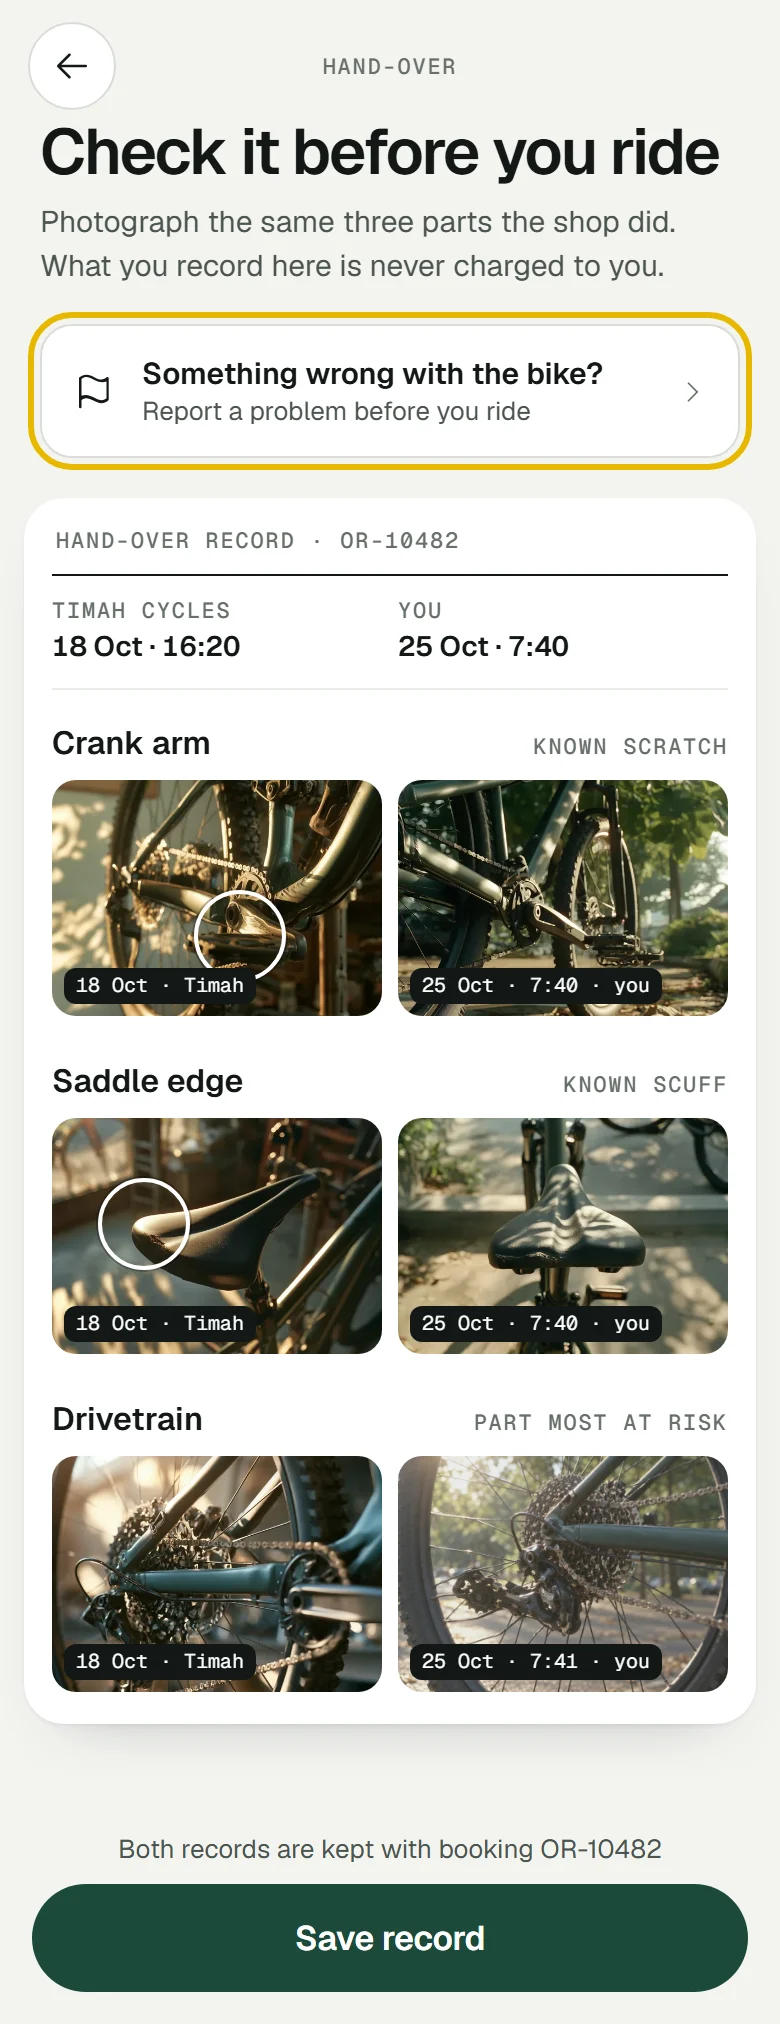
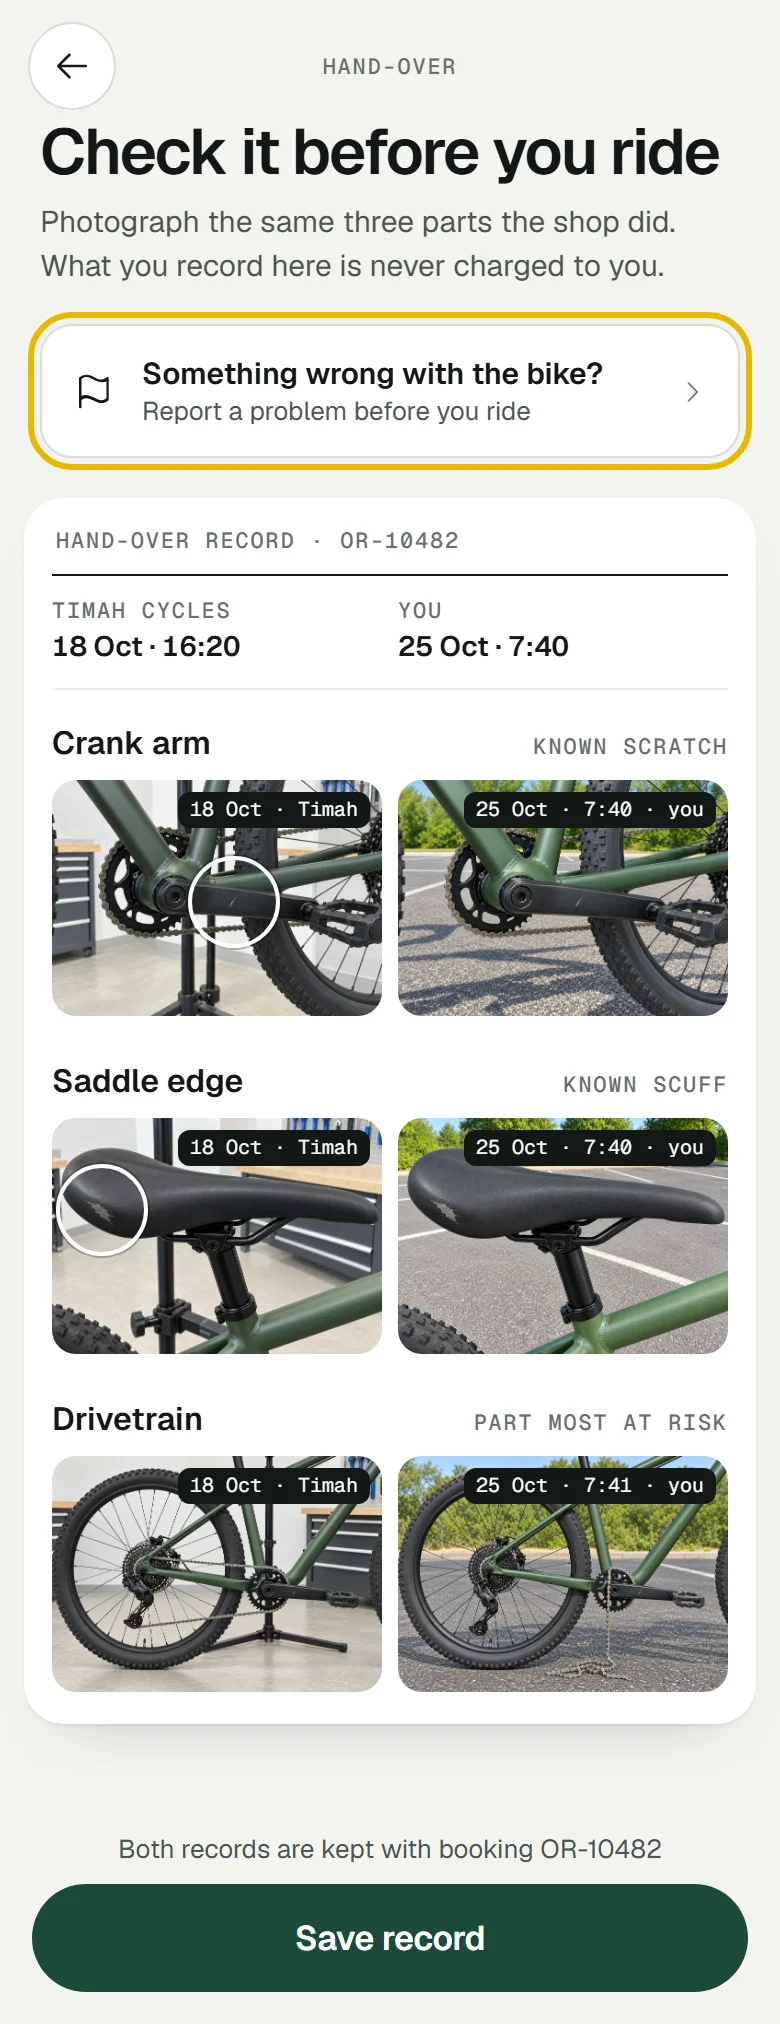
Test site: its own six photos, "Use photo" must be tapped, and two entry lines
The six photos are cropped to 7:5. From 3:2 that takes only the sides, so the drive pair keeps its bottom edge whole. Rings: shop crank (55, 52), shop saddle (15, 39); none on the drive pair or on Daniel's photos. The live app keeps its images.

The camera preview now waits for "Use photo", logged as photo_use_tap; "Retake" shows the same photo again and its tap is logged. t_damage_visible is still the moment the drivetrain preview appears. No schema change.

The photo tags move to the top right on all six photos, in both versions: at the bottom left, Daniel's drivetrain tag covered the chain on the ground. On short phones the entry sheet is tighter, so the whole bike still shows at 375 x 667.

The preference pictures are remade. Flows pass 488 of 488; the A/B pixel check, bundle grep and slow-connection check pass.

Changed region(s): [[0.0615, 0.3735, 0.9538, 0.6848], [0.0615, 0.7159, 0.9538, 0.8404]]

diff --git a/app/src/abtest/Screens.tsx b/app/src/abtest/Screens.tsx
@@ -2,9 +2,9 @@ import { useEffect, useRef, type CSSProperties, type KeyboardEvent, type ReactNo
 import { Icon } from '../shell/Icon'
 import { Photo } from '../shell/Photo'
 import { BackButton, Mono } from '../shell/direction'
-import { PARTS, RecordPart, ReportRow, type PartId } from '../pages/11-handover-check/pieces'
+import { RecordPart, ReportRow, type PartId } from '../pages/11-handover-check/pieces'
 import type { Variant } from './api'
-import { BACKDROP, CAPTION, EVIDENCE_DONE, EVIDENCE_OPEN, FIRST_TAKEN, LAYOUTS, LAYOUT_H, NOTICED, REASONS, SENT_FULL, SENT_SHORT, SHOP_TAG, TAKEN, mineOf } from './story'
+import { AB_PARTS, BACKDROP, CAPTION, EVIDENCE_DONE, EVIDENCE_OPEN, FIRST_TAKEN, LAYOUTS, LAYOUT_H, NOTICED, REASONS, SENT_FULL, SENT_SHORT, SHOP_TAG, TAKEN, mineOf } from './story'
 
 // The screens. The app's own copy is as in the flow artifact; what the participant reads outside the app is as in UPDATE 3. No screen reads the store or the router; App.tsx owns the state and the log.
 
@@ -42,12 +42,13 @@ export function Entry({ onStart, busy, failed }: { onStart: () => void; busy: bo
       <Mono>SMU IS211 · OutRent</Mono>
       <h1 className="t-h1">Your bike’s here</h1>
       <p className="lede">You’re Daniel. You booked a mountain bike on OutRent for a Saturday morning ride, and it’s just been dropped off at the trailhead. There’s a S$150 deposit on your card until you return it.</p>
-      <p className="lede">Use the app like you normally would before you ride off. Takes about 3 minutes.</p>
+      <p className="lede">Use the app like you normally would before you ride off. Compare what you see with the shop’s photos. Takes about 3 minutes.</p>
       {failed && <p className="ab-dock-note" role="alert">We could not reach the server. Check your connection and tap Start again.</p>}
       <button type="button" className="cta" data-log="start" disabled={busy} onClick={onStart}>Start</button>
       <div className="ab-ps-small">
         <p className="small">Hi! We’re SMU students building OutRent for our IS211 project. Thanks for helping us test it.</p>
         <p className="small">We don’t collect names or any personal info.</p>
+        <p className="small">Tapping “Take photo” won’t open your camera. The photos are already taken for you, it’s a prototype.</p>
       </div>
     </PhotoSheet>
   )
@@ -80,7 +81,7 @@ export function HandoverPage({ variant, shots, sent, linkRef, scrollRef, onTake,
             <div><Mono>You</Mono><b>{shots.length ? FIRST_TAKEN : 'Not taken yet'}</b></div>
           </div>
           <div className="parts">
-            {PARTS.map((p) => (
+            {AB_PARTS.map((p) => (
               <RecordPart key={p.id} p={p} shot={shots.includes(p.id)} when={TAKEN[p.id]} eager mine={mineOf(p.id)}
                 onTake={(el) => { if (shots.includes(p.id)) onView({ part: p.id, who: 'you' }, el); else onTake(p.id) }}
                 shopTag={<>
@@ -102,14 +103,21 @@ export function HandoverPage({ variant, shots, sent, linkRef, scrollRef, onTake,
 }
 
 // ---------- 2 · Simulated camera ----------
-export function Camera({ part }: { part: PartId }) {
+// The preview stays until "Use photo" is tapped. "Retake" shows the same photo again, with a short fade so the tap is felt.
+export function Camera({ part, retakes, onRetake, onUse }: { part: PartId; retakes: number; onRetake: () => void; onUse: () => void }) {
+  const use = useRef<HTMLButtonElement>(null)
+  useEffect(() => { use.current?.focus({ preventScroll: true }) }, [])
   return (
-    <div className="ab-camera" data-log="camera" role="status">
+    <div className="ab-camera" data-log="camera" role="dialog" aria-modal="true" aria-label={CAPTION[part]}>
       <span className="ab-camera-cap">{CAPTION[part]}</span>
-      <div className="ab-camera-photo">
-        <Photo src={mineOf(part)} alt={`Your photo of the ${PARTS.find((p) => p.id === part)!.name.toLowerCase()}`} width={390} height={278} first />
+      <div key={retakes} className={`ab-camera-photo${retakes ? ' is-again' : ''}`}>
+        <Photo src={mineOf(part)} alt={`Your photo of the ${AB_PARTS.find((p) => p.id === part)!.name.toLowerCase()}`} width={390} height={278} first />
       </div>
-      <div className="ab-camera-bar" aria-hidden="true"><span>Retake</span><span className="ab-shutter" /><span>Use photo</span></div>
+      <div className="ab-camera-bar">
+        <button type="button" data-log="camera-retake" onClick={onRetake}>Retake</button>
+        <span className="ab-shutter" aria-hidden="true" />
+        <button type="button" className="is-use" ref={use} data-log="camera-use" onClick={onUse}>Use photo</button>
+      </div>
     </div>
   )
 }
@@ -135,7 +143,7 @@ function ViewerFrame({ label, src, alt, caption, tall, onClose }: { label: strin
   )
 }
 export function Viewer({ view, onClose }: { view: PhotoView; onClose: () => void }) {
-  const p = PARTS.find((x) => x.id === view.part)!, name = p.name.toLowerCase(), mine = view.who === 'you'
+  const p = AB_PARTS.find((x) => x.id === view.part)!, name = p.name.toLowerCase(), mine = view.who === 'you'
   return <ViewerFrame label={`Photo of the ${name}`} src={mine ? mineOf(p.id) : p.shop} alt={mine ? `Your photo of the ${name}` : `The shop’s photo of the ${name}`}
     caption={`${p.name} · ${mine ? `${TAKEN[p.id]} · you` : SHOP_TAG}`} onClose={onClose} />
 }
@@ -170,7 +178,7 @@ export function ReportForm({ shots, reason, photos, details, onBack, onReason, o
         <div className="pad ab-block">
           <Mono id="ab-photos">Photos from your hand-over record</Mono>
           <div className="ab-thumbs" role="group" aria-labelledby="ab-photos">
-            {PARTS.filter((p) => shots.includes(p.id)).map((p) => (
+            {AB_PARTS.filter((p) => shots.includes(p.id)).map((p) => (
               <button key={p.id} type="button" className="ab-thumb" data-log={`thumb:${p.id}`} aria-pressed={photos.includes(p.id)} aria-label={`Attach your photo of the ${p.name.toLowerCase()}`} onClick={() => onTogglePhoto(p.id)}>
                 <Photo src={mineOf(p.id)} alt="" width={64} height={48} first />
               </button>

diff --git a/app/src/abtest/App.tsx b/app/src/abtest/App.tsx
@@ -8,7 +8,6 @@ import { clearRow, dropNew, readParams, readRow, readSaved, writeRow, writeSaved
 import { decoded, mineOf, preload } from './story'
 
 // The test's own small state and its log. Every time is ms since the Start tap; t0 is on the row.
-const SHOW_MS = 1000       // the simulated camera's preview
 const FRAME_LIMIT = 120    // the preview counts as on screen after two frames, or this long if the browser holds frames back
 const LOAD_LIMIT = 8000    // how long the preview waits for a photo on a slow connection before it goes on without it
 const TAP_SLOP = 10        // a pointer that moved further than this was a scroll, not a tap
@@ -68,6 +67,8 @@ function Start({ onRow }: { onRow: (r: Row) => void }) {
 function Session({ row }: { row: Row }) {
   const [s, setS] = useState<Saved>(() => readSaved(row.token))
   const [camera, setCamera] = useState<PartId | null>(null)
+  const [retakes, setRetakes] = useState(0)
+  const previewShown = useRef(false)
   const [view, setView] = useState<PhotoView | null>(null)
   const [prefView, setPrefView] = useState<Variant | null>(null)
   const viewFrom = useRef<HTMLElement | null>(null)
@@ -134,7 +135,7 @@ function Session({ row }: { row: Row }) {
     return () => io.disconnect()
   }, [s.screen, now, setFields])
 
-  // The simulated camera: the preview shows for 1.0 s from the moment it is on screen, then the photo drops into its slot.
+  // The simulated camera: the preview stays until "Use photo" is tapped, then the photo drops into its slot.
   const take = async (id: PartId) => {
     if (taking.current || cameraRef.current || state.current.shots.includes(id)) return
     taking.current = true
@@ -146,33 +147,44 @@ function Session({ row }: { row: Row }) {
   useEffect(() => {
     if (!camera) return
     const part = camera
-    let timer = 0, frame = 0, limit = 0, shown = false, gone = false
+    let frame = 0, limit = 0, shown = false, gone = false
+    previewShown.current = false
     const onScreen = () => {
       if (shown) return
       shown = true
+      previewShown.current = true
       const t = now()
       logEvent('photo', `preview:${part}`, { loaded: document.querySelector<HTMLImageElement>('.ab-camera img')?.complete ?? false })
       if (part === 'drive' && state.current.damageAt === null) { patch({ damageAt: t }); setFields({ t_damage_visible: t }) }
-      timer = window.setTimeout(() => {
-        const shots = [...state.current.shots, part]
-        lastDrop.current = part
-        patch({ shots })
-        const dropped = now()
-        queue.current.push({ photo_taken: [{ part, t: dropped }] })
-        logEvent('photo', `taken:${part}`, { count: shots.length })
-        peakY.current = scroller.current?.scrollTop ?? 0
-        setCamera(null)
-      }, SHOW_MS)
     }
     // The clock starts when the photo can be seen, so the damage's time is not counted from an empty screen. Frames stop
-    // while the page is hidden, and some browsers hold them back; the preview must still end.
+    // while the page is hidden, and some browsers hold them back; the clock must still start.
     void decoded(mineOf(part), LOAD_LIMIT).then(() => {
       if (gone) return
       frame = requestAnimationFrame(() => requestAnimationFrame(onScreen))
       limit = window.setTimeout(onScreen, FRAME_LIMIT)
     })
-    return () => { gone = true; cancelAnimationFrame(frame); clearTimeout(limit); clearTimeout(timer) }
+    return () => { gone = true; cancelAnimationFrame(frame); clearTimeout(limit) }
   }, [camera, now, logEvent, patch, setFields])
+  // A tap before the photo is on screen does nothing: the damage's clock must have started first.
+  const usePhoto = () => {
+    const part = cameraRef.current
+    if (!part || !previewShown.current) return
+    const shots = [...state.current.shots, part]
+    logEvent('photo_use_tap', part)
+    lastDrop.current = part
+    patch({ shots })
+    queue.current.push({ photo_taken: [{ part, t: now() }] })
+    logEvent('photo', `taken:${part}`, { count: shots.length })
+    peakY.current = scroller.current?.scrollTop ?? 0
+    cameraRef.current = null
+    setRetakes(0)
+    setCamera(null)
+  }
+  const retake = () => {
+    if (cameraRef.current) logEvent('photo', `retake:${cameraRef.current}`)
+    setRetakes((n) => n + 1)
+  }
 
   // The photo lands: the live page's short flash, nothing with reduced motion. The drivetrain's landing is also when the
   // link is measured against the screen.
@@ -320,7 +332,7 @@ function Session({ row }: { row: Row }) {
           onFinish={finish} />
       )}
       {s.screen === 'thanks' && <Thanks />}
-      {camera && <Camera part={camera} />}
+      {camera && <Camera part={camera} retakes={retakes} onRetake={retake} onUse={usePhoto} />}
       {view && <Viewer view={view} onClose={closeView} />}
       {prefView && <LayoutViewer version={prefView} onClose={closePref} />}
     </div>

diff --git a/app/src/abtest/abtest.css b/app/src/abtest/abtest.css
@@ -20,8 +20,8 @@ body { background: var(--desk); font-family: var(--font); color: var(--ink); -we
 .ab-link { margin: 0; }
 .ab-para { margin-top: var(--s-3); }
 
-/* Tags on the photos */
-.ab-tag { position: absolute; left: 6px; bottom: 6px; padding: 2px 6px; border-radius: var(--r-tick); background: var(--ink); color: var(--white); font-family: var(--mono); font-size: var(--fs-mono-s); line-height: var(--lh-mono); white-space: nowrap; }
+/* Tags on the photos: top right, so Daniel's drivetrain tag does not cover the chain on the ground, and clear of the shop's rings. */
+.ab-tag { position: absolute; right: 6px; top: 6px; padding: 2px 6px; border-radius: var(--r-tick); background: var(--ink); color: var(--white); font-family: var(--mono); font-size: var(--fs-mono-s); line-height: var(--lh-mono); white-space: nowrap; }
 
 /* A photo opens full size. The shop's is not a button in the live page, so the test lays one over it; nothing changes on screen. */
 .ab-view { position: absolute; inset: 0; width: 100%; height: 100%; padding: 0; border: 0; background: none; cursor: pointer; }
@@ -45,7 +45,13 @@ body { background: var(--desk); font-family: var(--font); color: var(--ink); -we
 .ab-camera-cap { padding: calc(var(--top-safe) + 20px) var(--s-4) var(--s-4); font-family: var(--mono); font-size: var(--fs-mono); line-height: var(--lh-mono); letter-spacing: var(--track-label); text-align: center; }
 .ab-camera-photo { position: relative; flex: 1; min-height: 0; }
 .ab-camera-photo .photo { position: absolute; inset: 0; width: 100%; height: 100%; object-fit: contain; }
-.ab-camera-bar { display: grid; grid-template-columns: 1fr auto 1fr; align-items: center; gap: var(--s-6); height: 120px; padding: 0 var(--s-6) env(safe-area-inset-bottom); font-size: var(--fs-small); text-align: center; }
+.ab-camera-photo.is-again { animation: ab-again var(--t-quick) var(--ease); }
+@keyframes ab-again { from { opacity: 0.2; } to { opacity: 1; } }
+@media (prefers-reduced-motion: reduce) { .ab-camera-photo.is-again { animation: none; } }
+.ab-camera-bar { display: grid; grid-template-columns: 1fr auto 1fr; align-items: center; gap: var(--s-6); height: 120px; padding: 0 var(--s-6) env(safe-area-inset-bottom); text-align: center; }
+.ab-camera-bar button { min-height: var(--touch); padding: 0; border: 0; background: none; color: var(--white); font: inherit; font-size: var(--fs-callout); cursor: pointer; }
+.ab-camera-bar button.is-use { font-weight: 600; }
+.ab-camera-bar button:focus-visible { outline-color: var(--white); }
 .ab-shutter { width: 64px; height: 64px; box-sizing: border-box; border: 4px solid var(--white); border-radius: var(--r-pill); }
 
 /* Cards and rows */
@@ -120,5 +126,11 @@ body { background: var(--desk); font-family: var(--font); color: var(--ink); -we
 .ab-ps-sheet .ab-dock-note { margin: 0; }
 .ab-ps-small { display: flex; flex-direction: column; gap: var(--s-1); }
 .ab-ps-small .small { margin: 0; }
+/* A short phone: tighter, so the whole bike still shows above the sheet. */
+@media (max-height: 700px) {
+  .ab-ps-photo .photo { object-position: 50% 62%; }
+  .ab-ps-sheet { gap: var(--s-2); padding-top: var(--s-4); padding-bottom: calc(var(--s-3) + env(safe-area-inset-bottom)); }
+  .ab-ps-sheet .cta { margin-top: var(--s-1); }
+}
 @keyframes ab-rise { from { transform: translateY(56px); } to { transform: none; } }
 @media (prefers-reduced-motion: reduce) { .ab-ps-sheet { animation: none; } }

diff --git a/app/src/abtest/story.ts b/app/src/abtest/story.ts
@@ -1,5 +1,10 @@
-import { PARTS, type PartId } from '../pages/11-handover-check/pieces'
-import driveBent from '@photos/_abtest/assets/11-mine-drive-bent.webp'
+import { PARTS, type Part, type PartId } from '../pages/11-handover-check/pieces'
+import shopCrank from '@photos/_abtest/assets/shop-crank.webp'
+import shopSaddle from '@photos/_abtest/assets/shop-saddle.webp'
+import shopDrive from '@photos/_abtest/assets/shop-drive.webp'
+import mineCrank from '@photos/_abtest/assets/mine-crank.webp'
+import mineSaddle from '@photos/_abtest/assets/mine-saddle.webp'
+import mineDrive from '@photos/_abtest/assets/mine-drive.webp'
 import backdrop from '@photos/07-fees-liability/assets/07-direction-backdrop-marlin7.webp'
 import layoutA from '@photos/_abtest/assets/layout-a.webp'
 import layoutB from '@photos/_abtest/assets/layout-b.webp'
@@ -8,8 +13,15 @@ import layoutB from '@photos/_abtest/assets/layout-b.webp'
 
 // The Marlin 7 at the trailhead, behind the first and the last screen, as on page 07.
 export const BACKDROP = backdrop
-// Daniel's drivetrain is the damaged photo: the cage bent into the spokes, not in the shop's photo.
-export const mineOf = (id: PartId) => (id === 'drive' ? driveBent : PARTS.find((p) => p.id === id)!.mine)
+// The test's own six photos, made so anyone can read them; the live app keeps its images. Daniel's drivetrain shows the
+// chain off and lying on the ground, which the shop's does not. The rings sit on the shop's scratch and scuff.
+const OWN: Record<PartId, Partial<Part>> = {
+  crank: { shop: shopCrank, mine: mineCrank, shopRing: [55, 52] },
+  saddle: { shop: shopSaddle, mine: mineSaddle, shopRing: [15, 39] },
+  drive: { shop: shopDrive, mine: mineDrive },
+}
+export const AB_PARTS: Part[] = PARTS.map((p) => ({ ...p, ...OWN[p.id] }))
+export const mineOf = (id: PartId) => AB_PARTS.find((p) => p.id === id)!.mine
 export const TAKEN: Record<PartId, string> = { crank: '25 Oct · 7:40', saddle: '25 Oct · 7:40', drive: '25 Oct · 7:41' }
 export const CAPTION: Record<PartId, string> = { crank: 'CRANK ARM · 25 OCT · 7:40', saddle: 'SADDLE EDGE · 25 OCT · 7:40', drive: 'DRIVETRAIN · 25 OCT · 7:41' }
 export const SHOP_TAG = '18 Oct · Timah'
@@ -29,7 +41,7 @@ export const LAYOUTS = {
 
 // Every photo the test shows, decoded before it is needed, so the 1.0 s preview starts with the picture on screen.
 export const preload = () => Promise.allSettled(
-  [backdrop, ...PARTS.flatMap((p) => [p.shop, mineOf(p.id)]), layoutA, layoutB].map((src) => { const i = new Image(); i.src = src; return i.decode() }),
+  [backdrop, ...AB_PARTS.flatMap((p) => [p.shop, p.mine]), layoutA, layoutB].map((src) => { const i = new Image(); i.src = src; return i.decode() }),
 )
 // Waits for a photo, but never for long: a slow decode must not stop the participant from going on.
 export const decoded = (src: string, limit = 1500) => {
